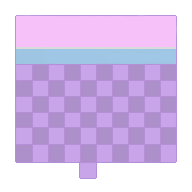
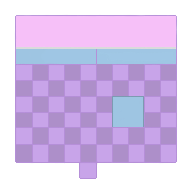
started adding pizzastone (ability to craft pizza) - doesn't work as intended

Changed region(s): [[0.5625, 0.5, 0.75, 0.6875], [0.5, 0.25, 0.5312, 0.3438]]

diff --git a/PizzaStone.js b/PizzaStone.js
@@ -1,0 +1,38 @@
+class PizzaStone extends GameObject{
+    constructor(config) {
+        super(config);
+        this.sprite = new Sprite ({
+            gameObject: this,
+            src: "/images/characters/pizza-stone.png",
+            animations: {
+                "used-down" : [ [0,0] ], // pizza is already crafted, no dough
+                "unused-down" : [ [1,0] ] // has dough that will be used to craft the pizza
+            },
+            currentAnimation: "used-down"
+        });
+        this.storyFlag = config.storyFlag;
+
+        // doesn't work yet cuz not implemented yet // video 14
+        this.talking = [
+            {
+                required: [this.storyFlag],
+                events: [
+                    { type: "textMessage", text: "You have already used this." }
+                ]
+            },
+            {
+                events: [
+                    { type: "textMessage", text: "Approaching the legendary pizza stone..."},
+                    { type: "addStoryFlag", flag: this.storyFlag }
+                ]
+            }
+        ]
+    }
+    // video 14
+    update() {
+        //this.sprite.currentAnimation = playerState.storyFlags[this.storyFlag] // playerState not implemented yet
+        //? "used-down" // if we have the pizza stone, it's used
+        //: "unused-down" // otherwise if we don't have it, its unused
+    }
+
+}

diff --git a/OverworldMap.js b/OverworldMap.js
@@ -93,6 +93,11 @@ window.OverworldMaps = {
           { type: "walk", diretion: "right"},
           { type: "walk", diretion: "down"},
         ]
+      }),
+      pizzaStone: new PizzaStone ({
+        x: utils.withGrid(2),
+        y: utils.withGrid(7),
+        storyFlag: "USED_PIZZA_STONE"
       })
     },
     walls: {

diff --git a/index.html b/index.html
@@ -13,6 +13,7 @@
       <script src="/Overworld.js"></script>
       <script src="/GameObject.js"></script>
       <script src="/Person.js"></script>
+      <script src="/PizzaStone.js"></script>
       <script src="/Sprite.js"></script>
       <script src="/Order.js"></script>
       <script src="/OverworldMap.js"></script>
